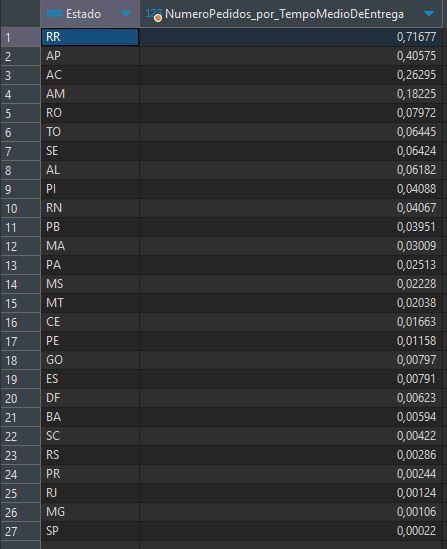
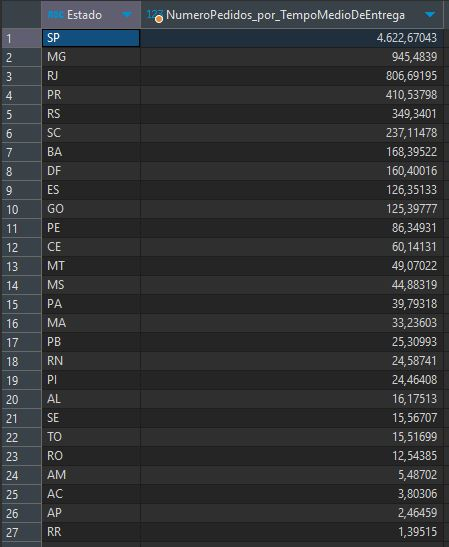
update ScriptP6.sql

Changed region(s): [[0.0, 0.0, 1.0, 1.0]]

diff --git a/README.md b/README.md
@@ -103,4 +103,4 @@ A resposta detalhada para essa questão pode ser encontrada na pasta `pergunta4`
 A resposta detalhada para essa questão pode ser encontrada no arquivo `TabelaP5.jpg`, que se encontra na pasta `pergunta5` da pasta `Queries SQL`. Porém, os 5 vendedores com o maior número de pedidos cancelados, tiveram, respectivamente, 9, 8, 7, 7 e 7 pedidos cancelados.
 
 #### 14. Quais os estados que tiveram a maior relação “Número de Pedidos”/”Tempo médio de entrega”? <br />
-A resposta detalhada para essa questão pode ser encontrada no arquivo `TabelaP6.jpg`, que se encontra na pasta `pergunta6` da pasta `Queries SQL`. Porém, os 3 estados com a maior relação "Número de Pedidos"/"Tempo médio de entrega" são *Roraima*, *Amapá* e *Acre*, nesta ordem.
+A resposta detalhada para essa questão pode ser encontrada no arquivo `TabelaP6.jpg`, que se encontra na pasta `pergunta6` da pasta `Queries SQL`. Porém, os 3 estados com a maior relação "Número de Pedidos"/"Tempo médio de entrega" são *São Paulo*, *Minas Gerais* e *Rio de Janeiro*, nesta ordem.
